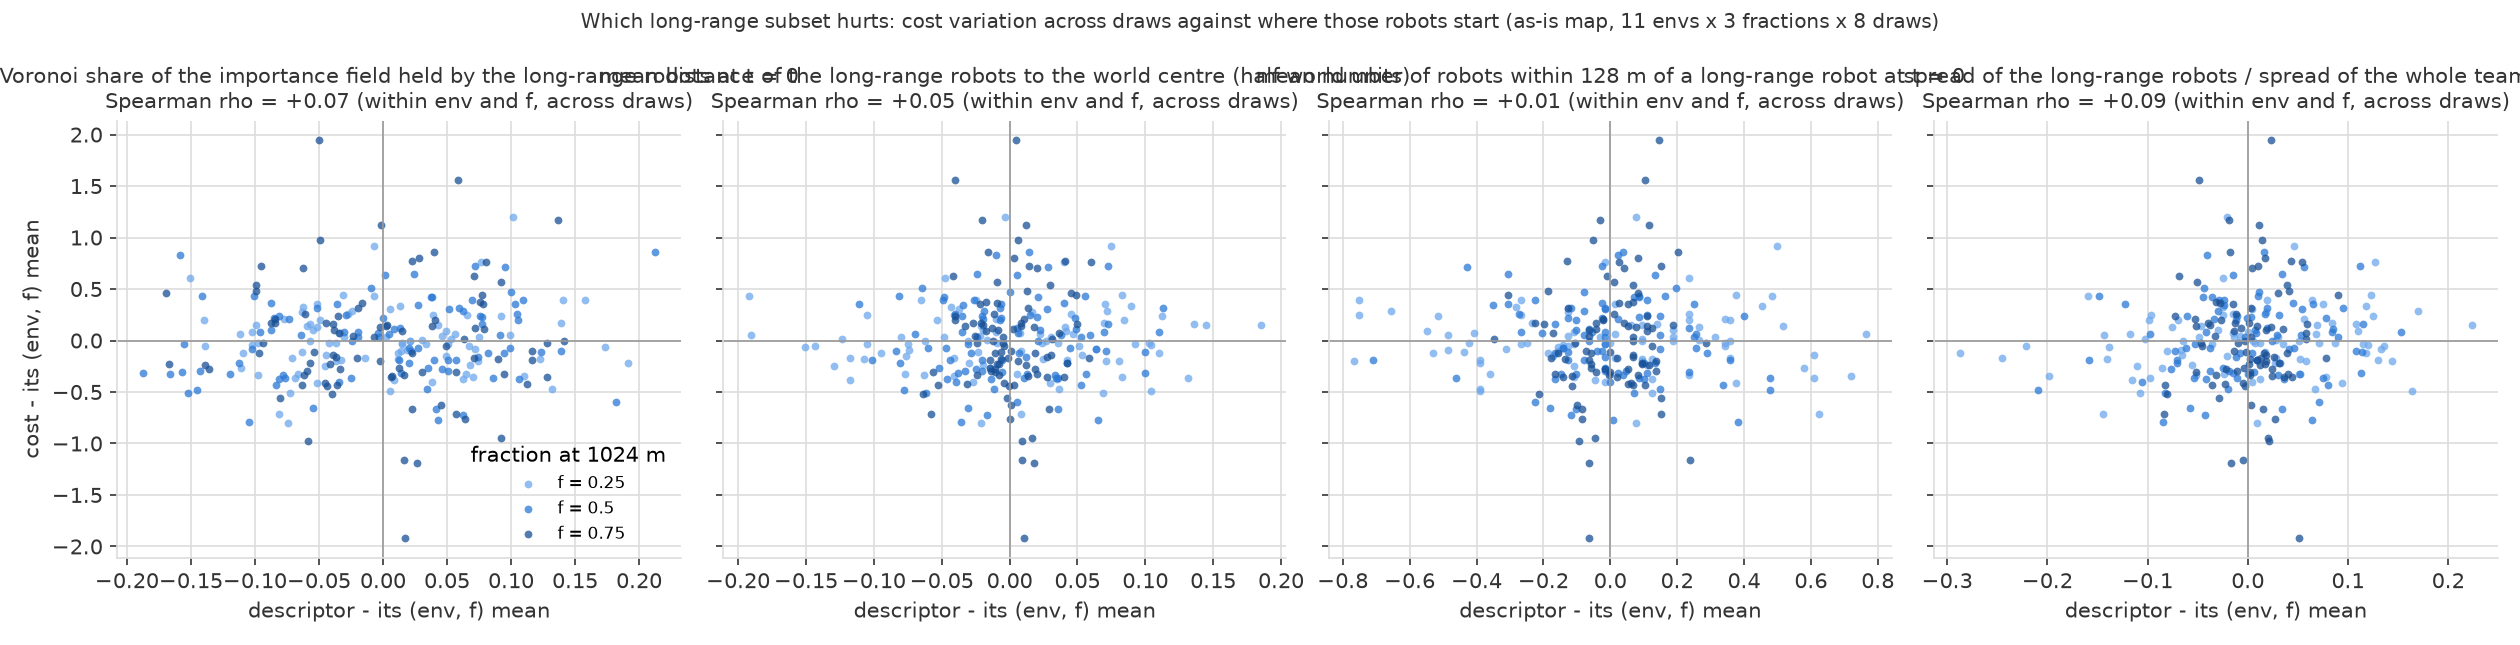
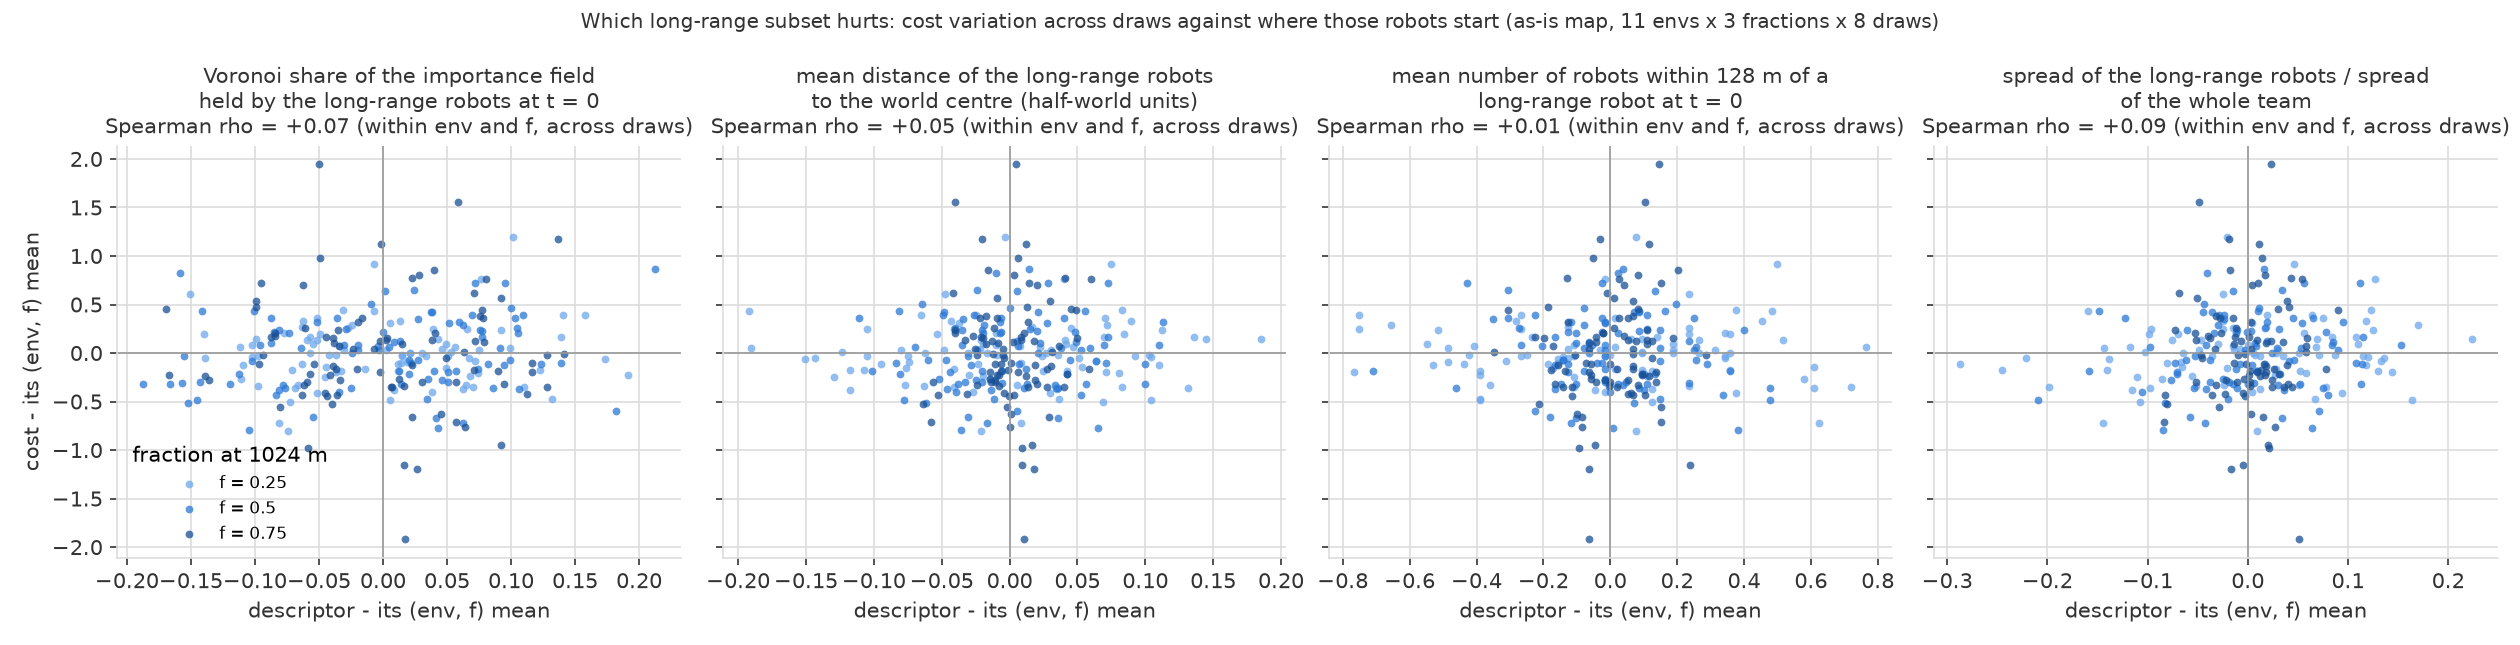
Wrap the panel titles of the start-position figure

diff --git a/lpac_study/plots_hetero.py b/lpac_study/plots_hetero.py
@@ -10,6 +10,7 @@ of the short-range robots (graph contamination alone) and of the long-range robo
 from __future__ import annotations
 
 import argparse
+import textwrap
 
 import matplotlib
 
@@ -49,7 +50,7 @@ def plot_position(frame: pd.DataFrame, path: str) -> None:
             ax.scatter(g["dx"], g["dcost"], s=14, color=color, alpha=0.75, label=f"f = {fr:g}", linewidths=0)
         rho = mid[["dx", "dcost"]].corr(method="spearman").iloc[0, 1]
         style_axis(ax, "descriptor - its (env, f) mean", "cost - its (env, f) mean" if ax is axes[0] else "",
-                   f"{label}\nSpearman rho = {rho:+.2f} (within env and f, across draws)")
+                   textwrap.fill(label, 40) + f"\nSpearman rho = {rho:+.2f} (within env and f, across draws)")
         ax.axhline(0, color="#999999", linewidth=0.8)
         ax.axvline(0, color="#999999", linewidth=0.8)
     axes[0].legend(frameon=False, fontsize=8, title="fraction at 1024 m")
